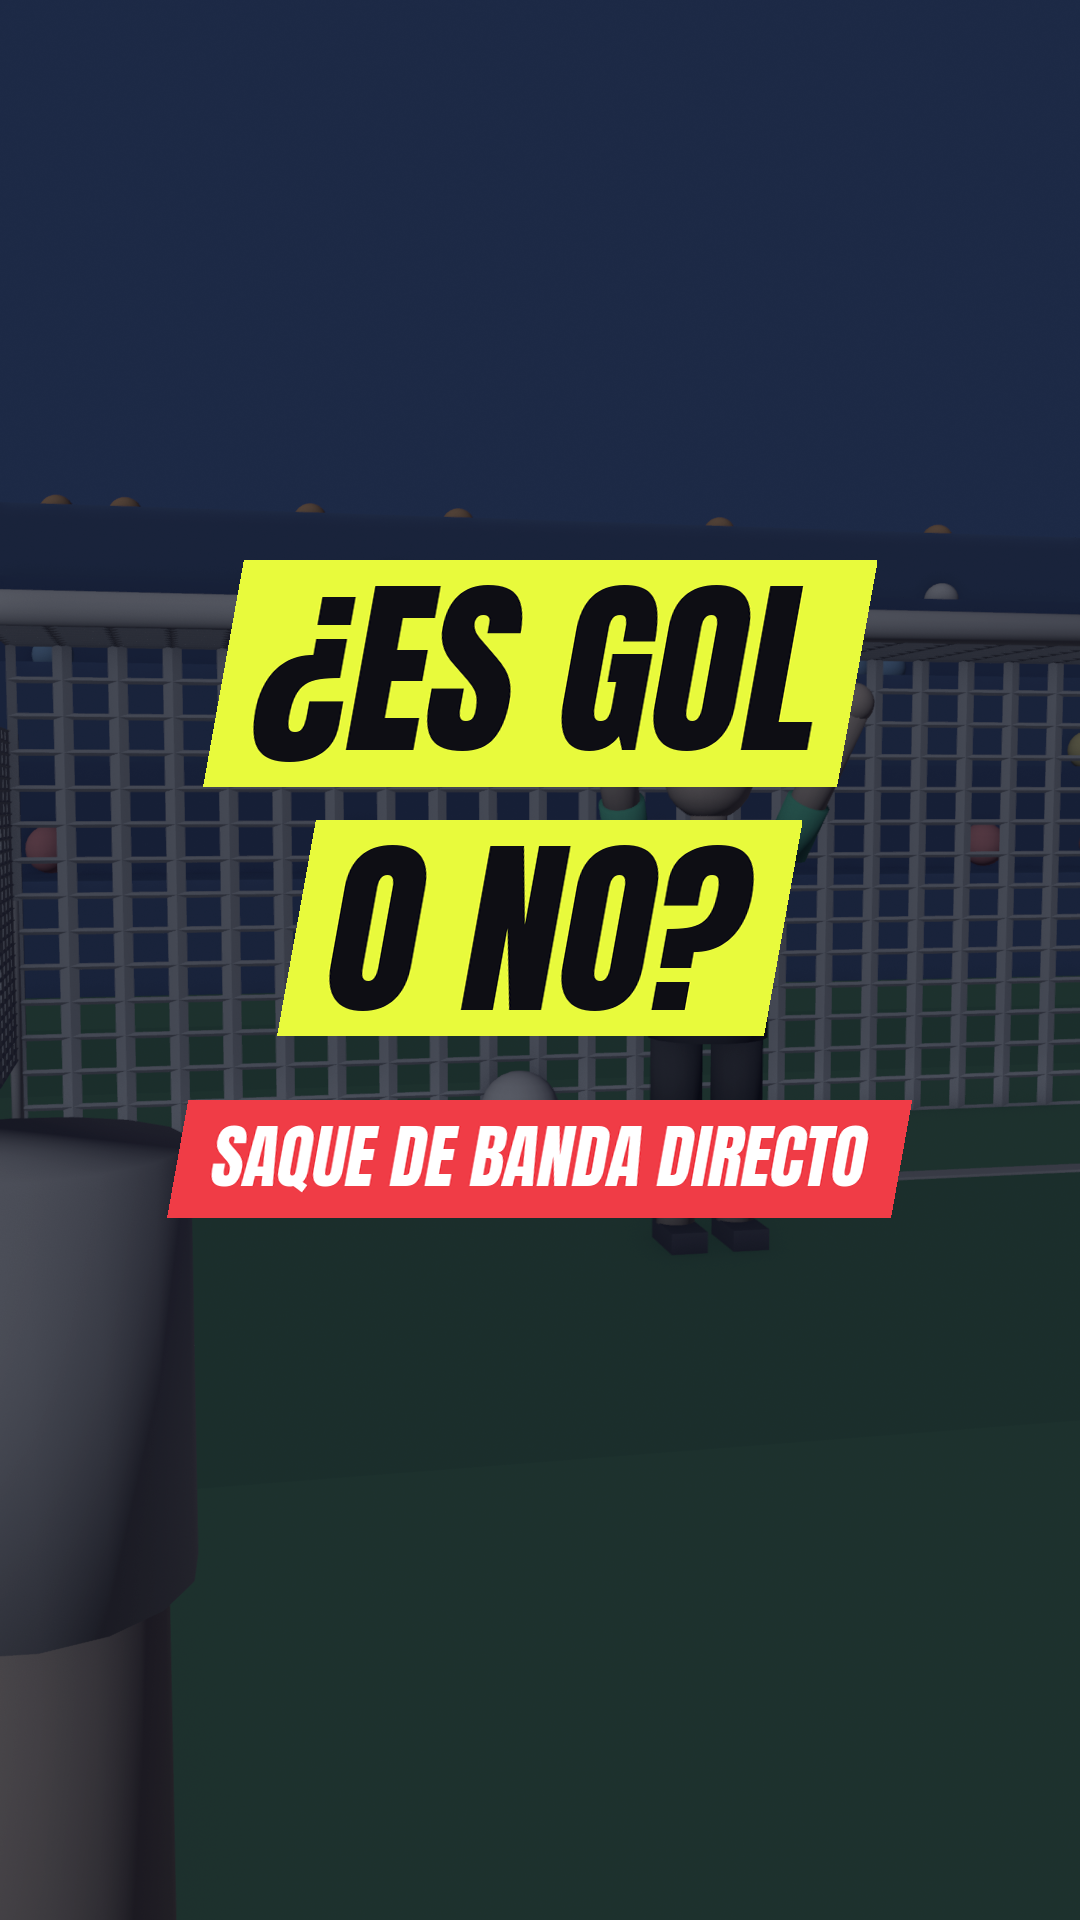
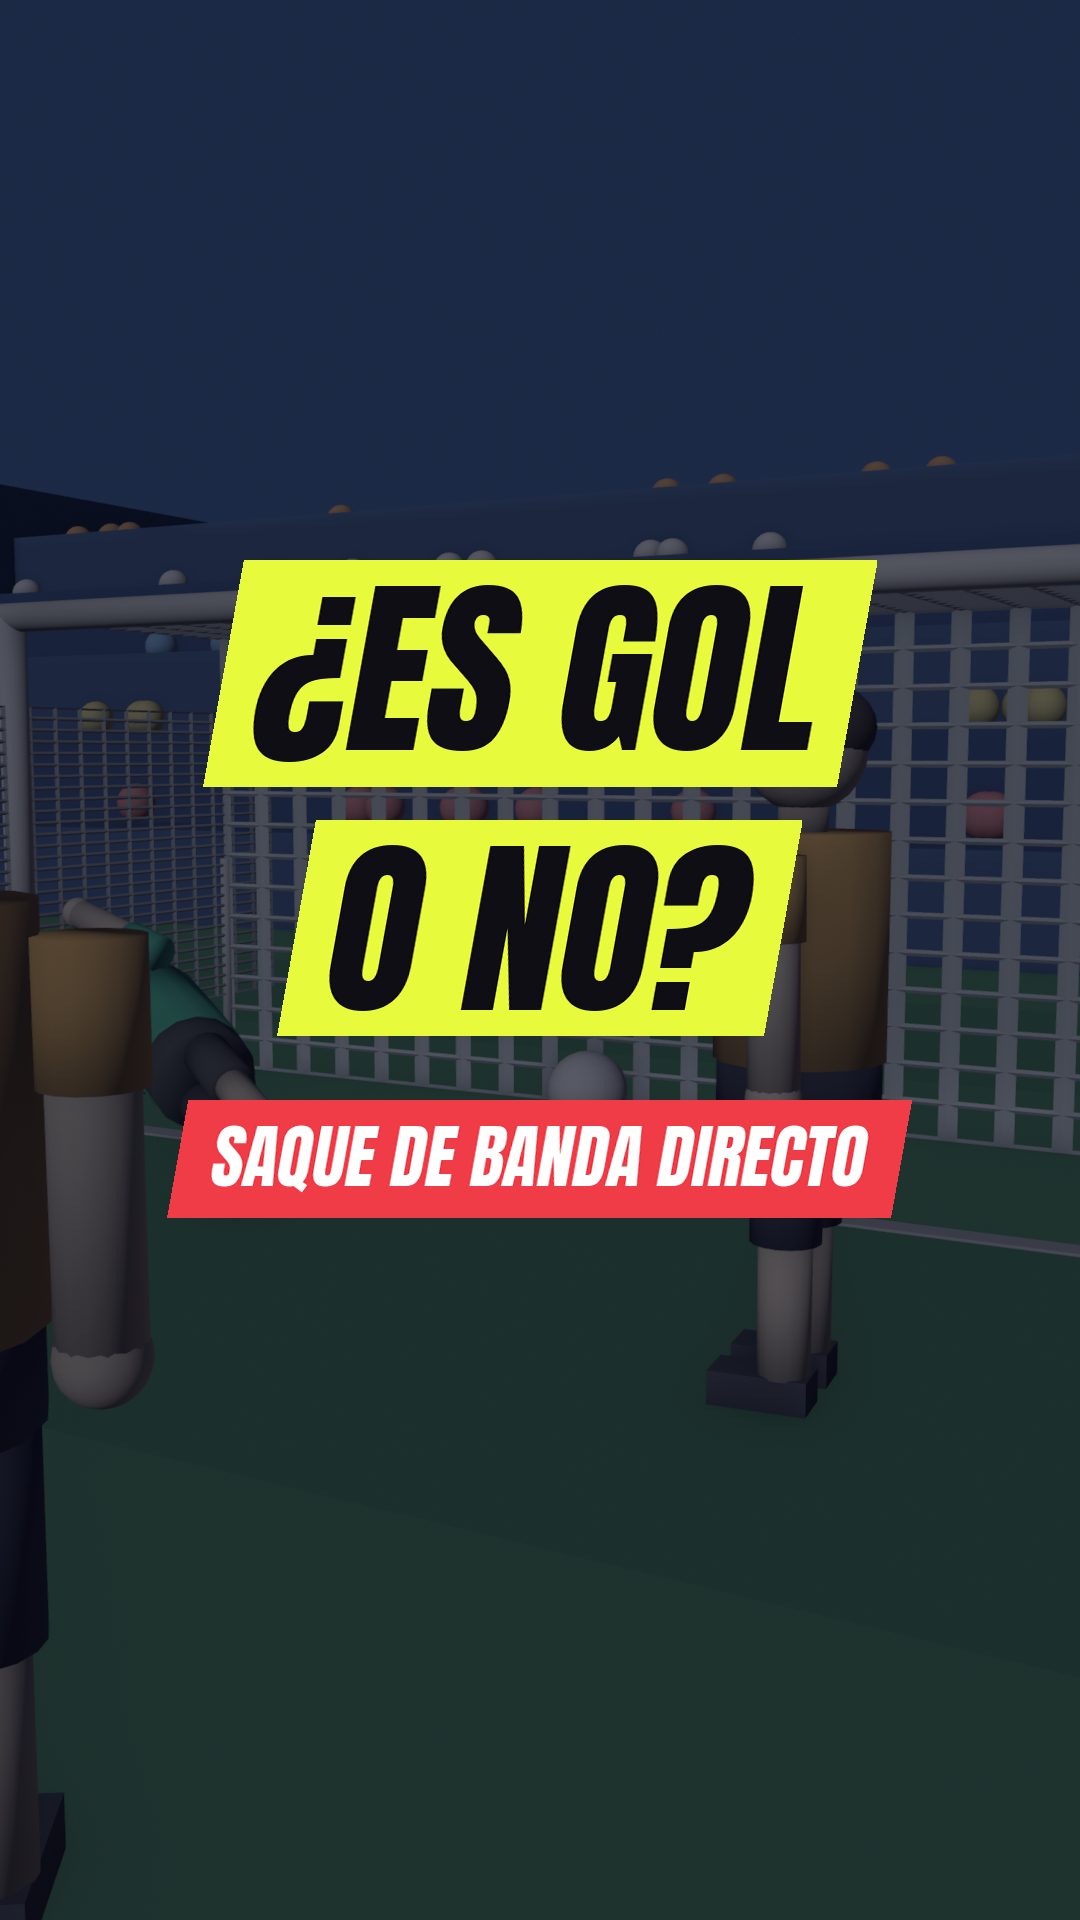
Football 3D: reframe the 'no goal' shots so the ball in the net is visible
Claude-Session: https://claude.ai/code/session_01QLcoZj72nNinDJT6TDPcL8

diff --git a/canal-gta6/motor/futbol3d.py b/canal-gta6/motor/futbol3d.py
@@ -284,8 +284,8 @@ def animar(E, T, total):
     t7 = g[7]["t0"]
     PLANOS = {
         0: (((-19.6, -12.6, 3.3), (-9, -4, 1.4), 24), ((-10, -10.5, 4.2), (-1, 0, 1.2), 26)),
-        1: (((-3.2, -7.8, 1.8), (-1.2, 0.8, 1.0), 30), ((-2.7, -6.9, 1.6), (-1.2, 0.8, 0.9), 33)),
-        2: (((-2.3, -6.0, 1.4), (-1.2, 0.8, 0.8), 34), ((-2.0, -5.3, 1.3), (-1.2, 0.8, 0.7), 37)),
+        1: (((2.8, -6.8, 1.9), (-1.2, 0.8, 0.9), 30), ((2.4, -6.0, 1.7), (-1.2, 0.8, 0.8), 33)),
+        2: (((2.0, -5.0, 1.5), (-1.2, 0.8, 0.7), 34), ((1.8, -4.5, 1.4), (-1.2, 0.8, 0.6), 37)),
         3: (((-7.5, -11, 24), (-7, -5, 0), 22), ((-6.5, -10.5, 22), (-6, -5, 0), 22)),
         4: (((5, -13, 6), (-1, -3, 0.5), 26), ((4, -12, 5), (-1.5, -3.5, 0.5), 28)),
         5: (((-9.5, -7.5, 3.0), (-14.6, -0.4, 0.8), 28), ((-10.5, -6.0, 2.5), (-14.6, -0.3, 0.8), 32)),
